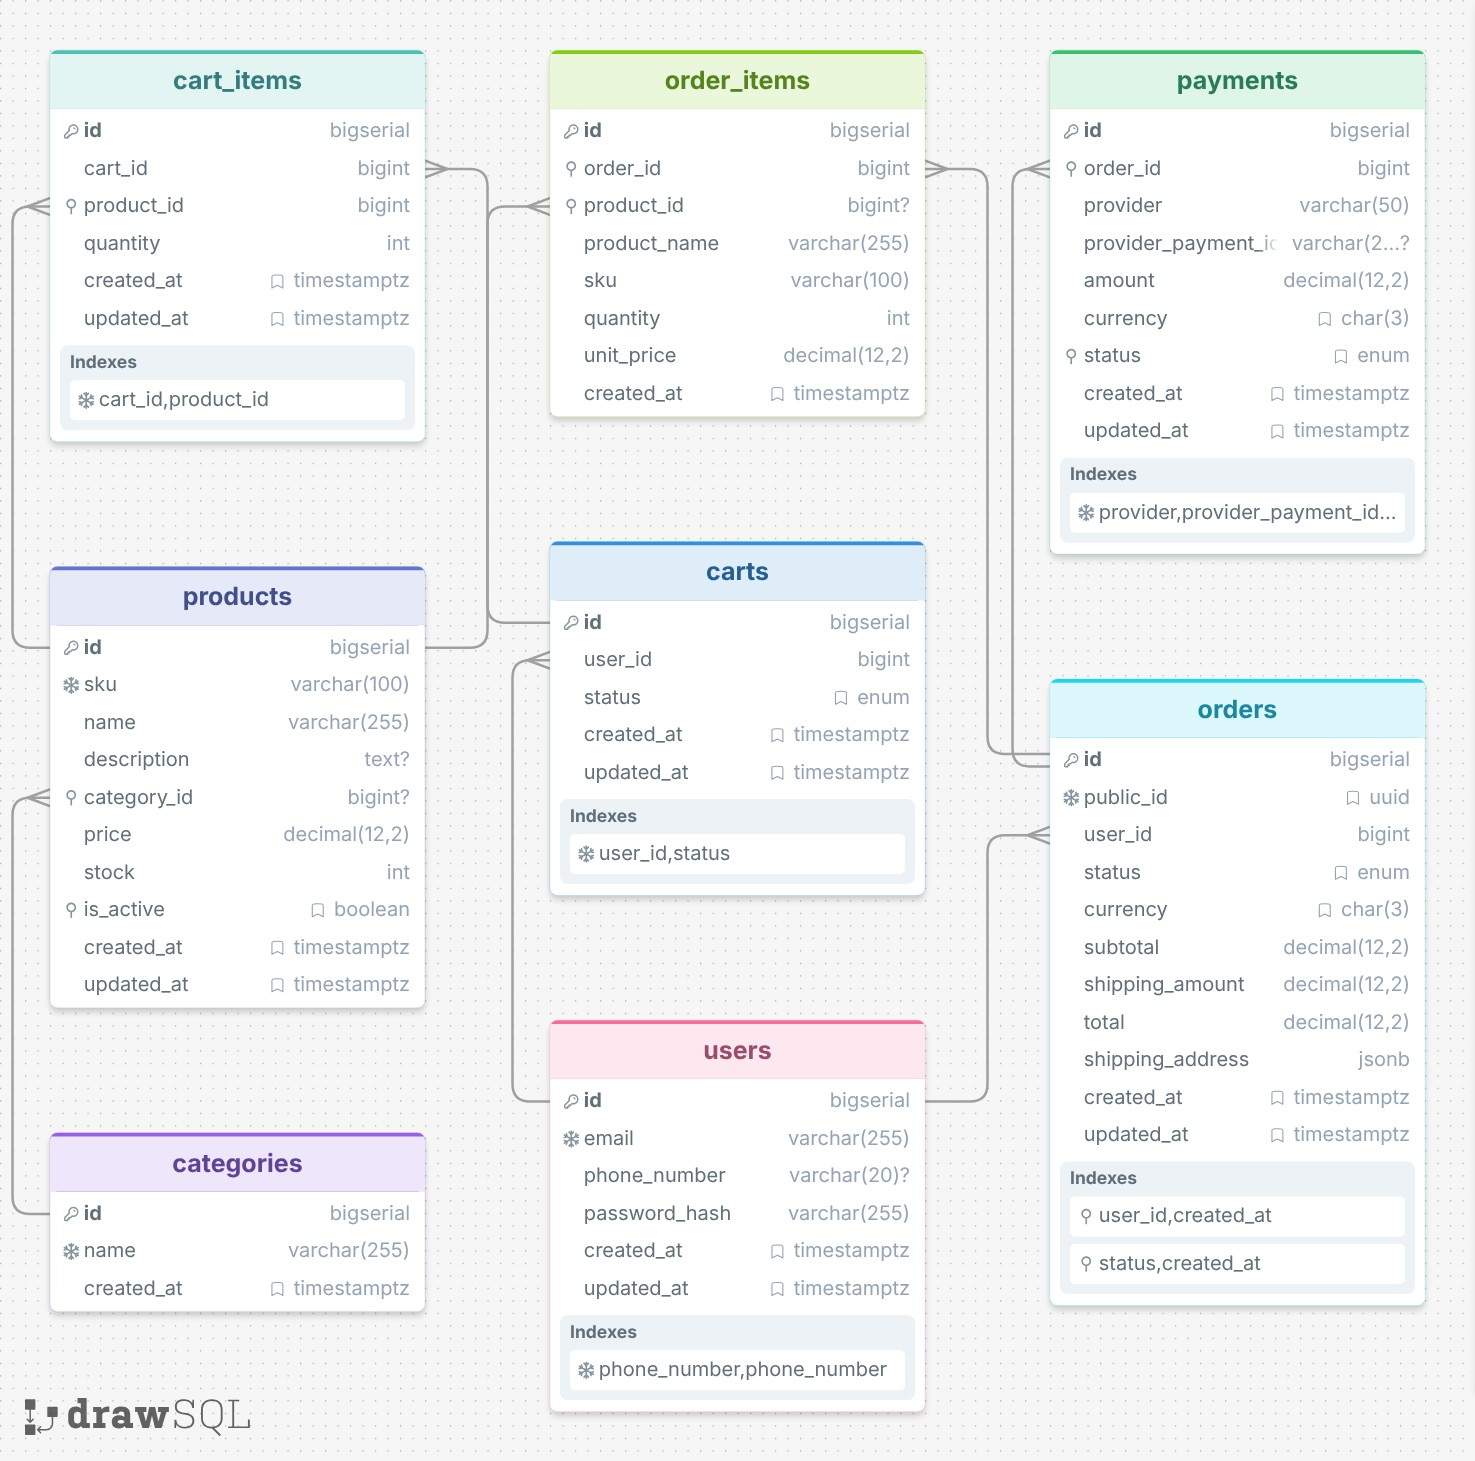
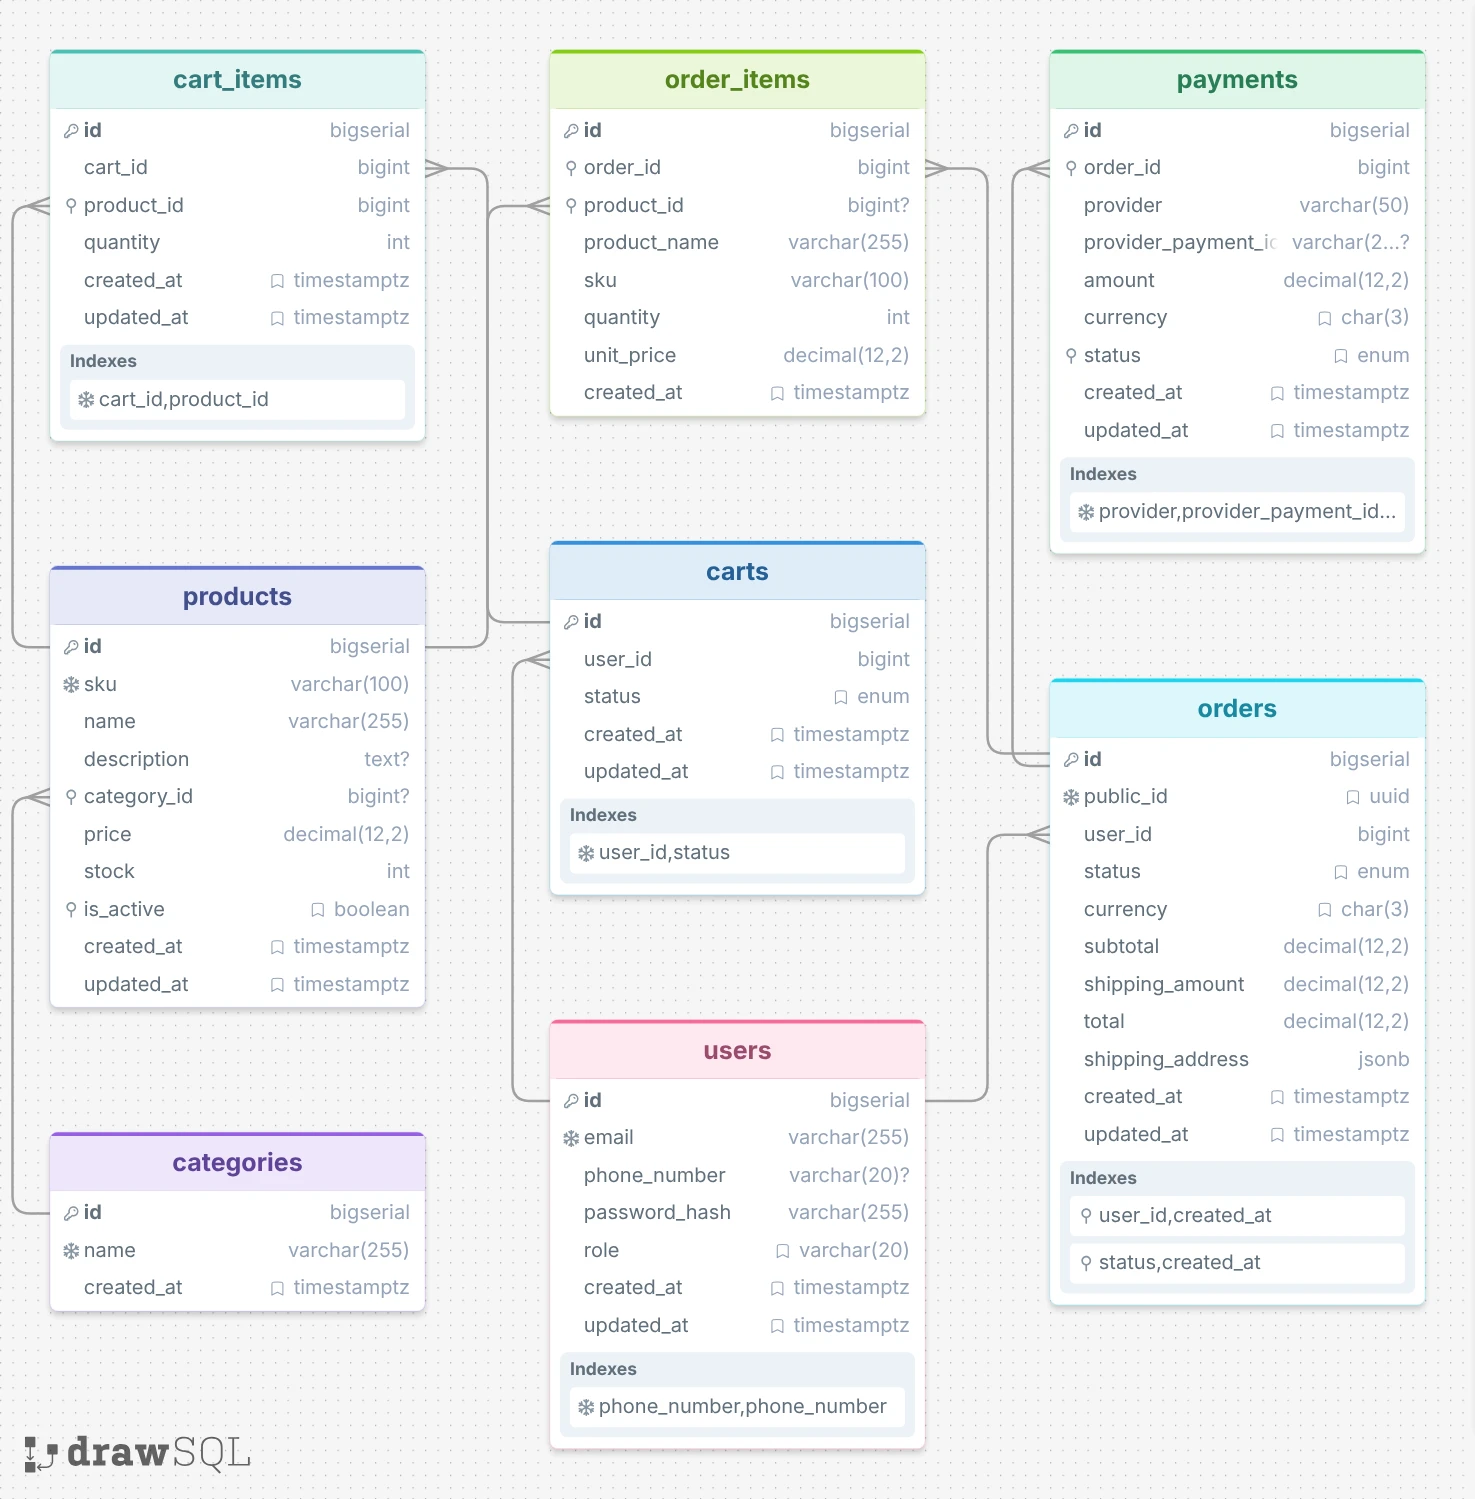
docs: update schema diagram and README links

diff --git a/app/core/exceptions.py b/app/core/exceptions.py
@@ -17,8 +17,6 @@ class ForbiddenError(AppHTTPError):
 
 
 class DomainError(Exception):
-    """Base domain exception independent of HTTP."""
-
     def __init__(self, message: str = "A domain error occurred", detail: str | None = None):
         self.message = detail or message
         super().__init__(self.message)
@@ -35,7 +33,6 @@ class ConflictError(DomainError):
 
 
 class CheckoutError(DomainError):
-    """Base error for checkout operations."""
     pass
 
 

diff --git a/app/schemas/user.py b/app/schemas/user.py
@@ -1,12 +1,12 @@
 import re
 from datetime import datetime
 
-from pydantic import BaseModel, EmailStr, ConfigDict, field_validator
+from pydantic import BaseModel, ConfigDict, EmailStr, Field, field_validator
 
 
 class UserCreate(BaseModel):
-    email: EmailStr
-    password: str
+    email: EmailStr = Field(examples=["user@example.com"])
+    password: str = Field(examples=["Password123!"])
 
     @field_validator("password")
     @classmethod

diff --git a/README.md b/README.md
@@ -35,7 +35,7 @@ REST API for an e-commerce store built with FastAPI, PostgreSQL, Redis, Celery, 
 │   ├── services/          # Business logic (CartService, ProductService, OrderService, PaymentService)
 │   ├── main.py            # FastAPI app entrypoint and exception handlers
 │   └── worker.py          # Celery worker configuration and tasks
-├── docs/architecture/     # SQL schema reference (schema.sql) and ERD (Schema.jpg)
+├── docs/architecture/     # PostgreSQL DDL schema reference (schema.sql) and ERD (schema.jpg)
 ├── tests/                 # Async integration and concurrency tests
 ├── Dockerfile
 └── docker-compose.yml
@@ -62,7 +62,7 @@ REST API for an e-commerce store built with FastAPI, PostgreSQL, Redis, Celery, 
 | `GET` | `/health` | Public | App health check |
 | `GET` | `/health/db` | Public | Database connectivity check |
 
-Database schema details can be found in [docs/architecture/schema.sql](docs/architecture/schema.sql) and [docs/architecture/Schema.jpg](docs/architecture/Schema.jpg).
+Database schema details can be found in [docs/architecture/schema.sql](docs/architecture/schema.sql) and [docs/architecture/schema.jpg](docs/architecture/schema.jpg).
 
 ## Getting Started
 
